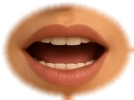
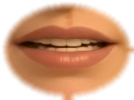
feat(agent): transfer base skin texture onto Helen expression frames
Adds a texture-transfer step to align-helen-frames: the frame's fine skin
detail is swapped for helen.png's (freckles, pores) on skin only, with eyes,
brows and mouth excluded and both sides soft-clipped so base smile lines
don't carry over. Reports skin high-frequency stats before/after.

Updates blink_half (regenerated, no longer a copy of mouth_slight) and
mouth_ee (spread lips), and reruns all 15 frames.

diff --git a/agent/scripts/align-helen-frames.py b/agent/scripts/align-helen-frames.py
@@ -17,6 +17,8 @@ Pipeline per frame:
   2. SIFT features on the non-face area only (hair, crown, shoulders, clothing) -> RANSAC similarity,
      then ECC affine refinement on the same mask; keep whichever has the lower masked error
   3. Lab mean/std colour match of the warped frame's skin to the base skin
+  3b. texture transfer: replace the frame's fine skin detail (freckles, pores) with the base's, on skin
+     only (eyes, brows and mouth excluded) so texture doesn't flicker between frames
   4. composite inside the face mask (forehead->chin, ear->ear, earrings cut out) with a feathered alpha
      that is exactly 0 outside the mask, so hair/crown/earrings/clothing are the base pixels
 
@@ -54,6 +56,12 @@ EARRINGS = [(250, 322, 32, 76), (486, 322, 32, 76)]  # x, y, w, h — always kep
 FEATHER = 14                      # px ramp inside the mask edge
 EYE_BOX = (276, 196, 222, 90)     # x, y, w, h  both eyes + lids
 MOUTH_BOX = (320, 330, 134, 100)  # x, y, w, h  lips + jaw drop room
+TEX_SIGMA = 2.5                   # px; detail finer than this (freckles, pores) is "texture"
+TEX_CLIP = 6.0                    # Lab-L units; soft clip so base edges (smile lines, nostrils) don't transfer
+# Regions never textured (base coords, ellipse centre + axes): each eye with its brow, and the mouth with
+# room for the jaw drop. Feathered by TEX_FEATHER.
+TEX_EXCLUDE = [((333, 232), (58, 42)), ((445, 232), (58, 42)), ((387, 374), (70, 44))]
+TEX_FEATHER = 6.0
 CORNER = 0.10                     # corner size (fraction of side) searched for the Gemini sparkle
 
 
@@ -138,6 +146,43 @@ def lab_match(src: np.ndarray, ref: np.ndarray, m: np.ndarray) -> tuple[np.ndarr
     return out, {"lab_mean_shift": (mr - ms).round(2).tolist(), "lab_std_ratio": (sr / ss).round(3).tolist()}
 
 
+def texture_mask(hard: np.ndarray) -> np.ndarray:
+    """Float 0..1: skin inside the face mask, excluding eyes, brows and mouth."""
+    m = cv2.erode(hard, np.ones((9, 9), np.uint8))
+    for c, ax in TEX_EXCLUDE:
+        cv2.ellipse(m, c, ax, 0, 0, 360, 0, -1)
+    return cv2.GaussianBlur(m.astype(np.float32) / 255, (0, 0), TEX_FEATHER)
+
+
+def _detail(lab: np.ndarray) -> np.ndarray:
+    return lab - cv2.GaussianBlur(lab, (0, 0), TEX_SIGMA)
+
+
+def _soft(x: np.ndarray, t: float) -> np.ndarray:
+    return t * np.tanh(x / t)
+
+
+def texture_transfer(img: np.ndarray, base: np.ndarray, m: np.ndarray) -> np.ndarray:
+    """Swap the frame's fine skin texture for the base's. Low-amplitude detail (freckles, pores) is
+    replaced; high-amplitude detail (the frame's own creases, e.g. a frown) mostly survives because
+    both sides are soft-clipped before swapping. Chroma gets a scaled share so freckles keep their tint."""
+    a = cv2.cvtColor(img, cv2.COLOR_BGR2LAB).astype(np.float32)
+    b = cv2.cvtColor(base, cv2.COLOR_BGR2LAB).astype(np.float32)
+    da, db = _detail(a), _detail(b)
+    out = a.copy()
+    for ch, t in ((0, TEX_CLIP), (1, TEX_CLIP / 2), (2, TEX_CLIP / 2)):
+        out[..., ch] += m * (_soft(db[..., ch], t) - _soft(da[..., ch], t))
+    return cv2.cvtColor(np.clip(out + 0.5, 0, 255).astype(np.uint8), cv2.COLOR_LAB2BGR)
+
+
+def texture_stats(img: np.ndarray, base: np.ndarray, m: np.ndarray) -> dict:
+    """Skin high-frequency energy vs base, and mean |HF(frame) - HF(base)| — the texture part of flicker."""
+    sel = m > 0.5
+    la = _detail(cv2.cvtColor(img, cv2.COLOR_BGR2LAB).astype(np.float32))[..., 0][sel]
+    lb = _detail(cv2.cvtColor(base, cv2.COLOR_BGR2LAB).astype(np.float32))[..., 0][sel]
+    return {"hf_energy_ratio": round(float(la.std() / lb.std()), 3), "hf_diff": round(float(np.abs(la - lb).mean()), 3)}
+
+
 def sparkle_score(warped: np.ndarray, base: np.ndarray, valid: np.ndarray) -> list[dict]:
     """Look for a small bright blob (Gemini's 4-point sparkle) in each corner of the aligned frame
     that is not in the base. Working on the difference cancels clothing/background texture."""
@@ -179,6 +224,7 @@ def main() -> None:
     skin = hard.copy()
     for x, y, bw, bh in (EYE_BOX, MOUTH_BOX):
         skin[y:y + bh, x:x + bw] = 0
+    tex = texture_mask(hard)
     seam = ((alpha > 0) & (alpha < 0.5)).astype(np.uint8)
     (OUT / "patches").mkdir(parents=True, exist_ok=True)
     cv2.imwrite(str(OUT / "neutral.png"), base)
@@ -217,6 +263,9 @@ def main() -> None:
 
         matched, cm = lab_match(warped, base, skin)
         r["color"] = cm
+        r["texture_before"] = texture_stats(matched, base, tex)
+        matched = texture_transfer(matched, base, tex)
+        r["texture_after"] = texture_stats(matched, base, tex)
         r["seam_mae"] = masked_mae(matched, base, seam)
         r["eye_change"] = masked_mae(matched, base, _box(h, w, EYE_BOX))
         r["mouth_change"] = masked_mae(matched, base, _box(h, w, MOUTH_BOX))
@@ -293,7 +342,7 @@ def _box(h: int, w: int, box) -> np.ndarray:
 
 def print_table(report: dict) -> None:
     print(f"{'frame':<13}{'status':<9}{'inl':>5}{'reproj':>8}{'scale':>7}{'outMAE':>8}{'out>30':>8}"
-          f"{'seam':>7}{'eyeΔ':>7}{'mouthΔ':>8}  watermark / notes")
+          f"{'seam':>7}{'eyeΔ':>7}{'mouthΔ':>8}{'hfR→':>7}{'hfR':>6}{'hfΔ→':>7}{'hfΔ':>6}  watermark / notes")
     for n, r in report["frames"].items():
         if r.get("status") != "ok":
             print(f"{n:<13}{r.get('status', '?'):<9}  dup={r.get('duplicate_of')}")
@@ -302,7 +351,9 @@ def print_table(report: dict) -> None:
                       for m in r["watermark"]) or "-"
         print(f"{n:<13}{'ok':<9}{r['inliers']:>5}{r['reproj_median_px']:>8.2f}{r['scale']:>7.3f}"
               f"{r['outside_mae']:>8.2f}{r['outside_frac_gt30']:>8.1%}{r['seam_mae']:>7.2f}"
-              f"{r['eye_change']:>7.2f}{r['mouth_change']:>8.2f}  {wm}"
+              f"{r['eye_change']:>7.2f}{r['mouth_change']:>8.2f}"
+              f"{r['texture_before']['hf_energy_ratio']:>7.2f}{r['texture_after']['hf_energy_ratio']:>6.2f}"
+              f"{r['texture_before']['hf_diff']:>7.2f}{r['texture_after']['hf_diff']:>6.2f}  {wm}"
               f"{'  dup=' + str(r['duplicate_of']) if r.get('duplicate_of') else ''}")
 
 
